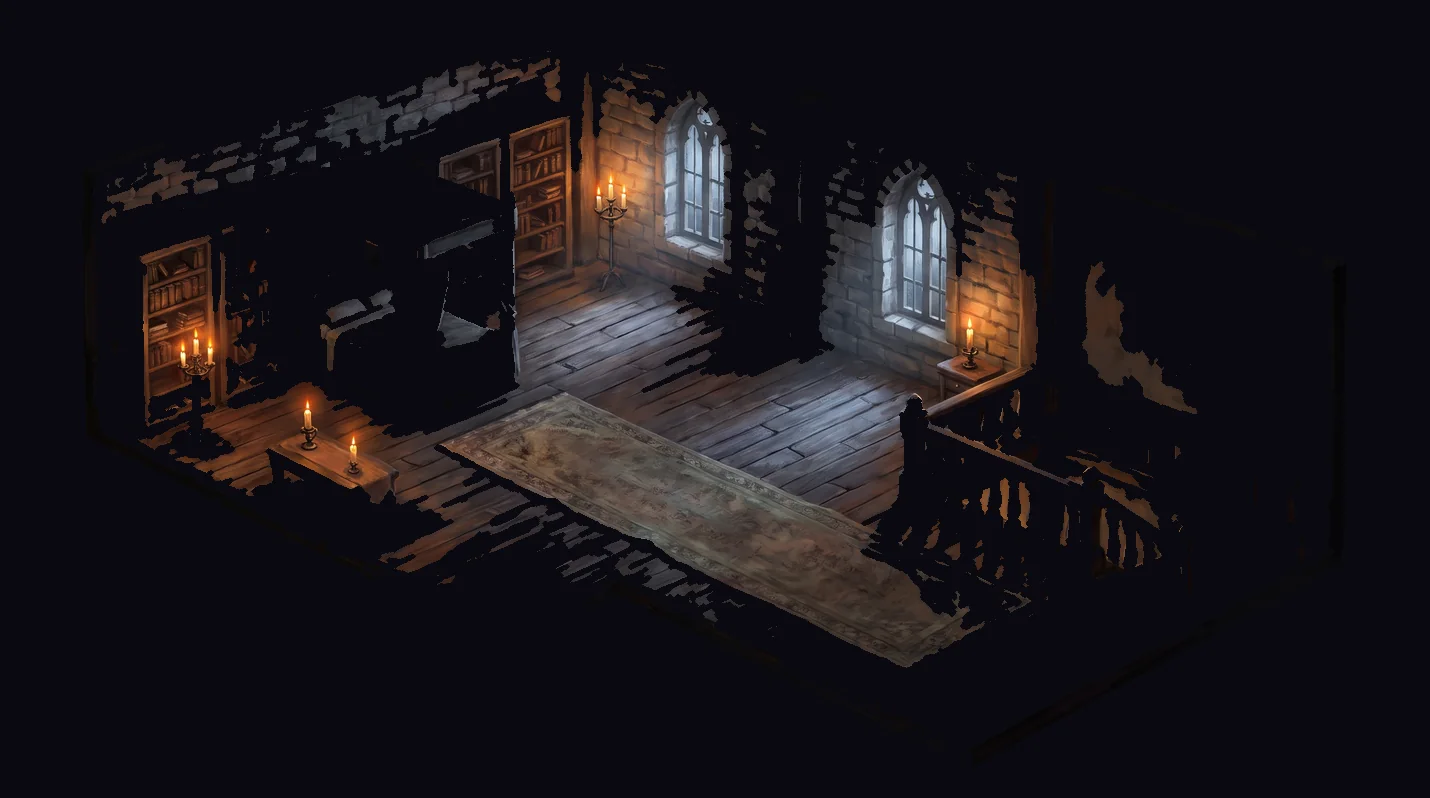
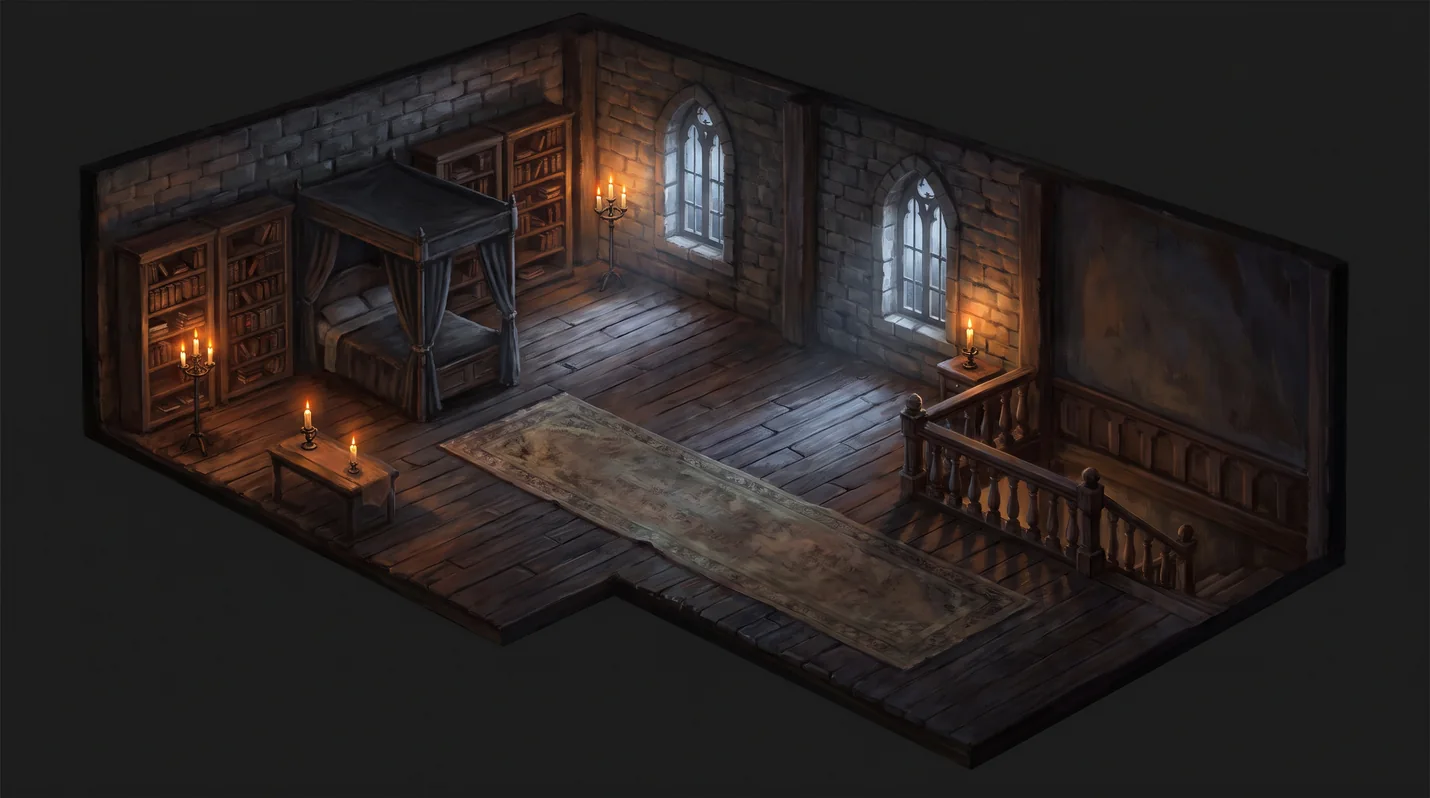
Add flashing wall text and restore the upper room
Background keying had eaten into the upper room's painting.

Changed region(s): [[0.0615, 0.0301, 0.9231, 0.9023]]

diff --git a/client/src/render.ts b/client/src/render.ts
@@ -366,6 +366,23 @@ export class Renderer {
     context.globalCompositeOperation = "source-over";
   }
 
+  /** Flashing writing, skewed to follow the back-left wall of the upper room. */
+  private drawWallText() {
+    const context = this.context;
+    const flash = Math.sin(this.time * 9) > -0.2 ? 1 : 0.12;
+
+    context.save();
+    context.transform(1, -0.335, 0, 1, 395, 200);
+    context.font = "700 44px Georgia, serif";
+    context.textAlign = "center";
+    context.globalAlpha = flash;
+    context.shadowColor = "#ff2a18";
+    context.shadowBlur = 22;
+    context.fillStyle = "#ff5a3c";
+    context.fillText("O Zé é Gay!!!", 0, 0);
+    context.restore();
+  }
+
   private drawLabel(pickables: Pickable[], hovered: string | undefined) {
     const item = pickables.find((pickable) => pickable.id === hovered);
     const hotspot = HOTSPOTS.find((spot) => spot.id === hovered);
@@ -592,6 +609,7 @@ export class Renderer {
     context.setTransform(scale, 0, 0, scale, this.canvas.width / 2 - camera.x * scale, this.canvas.height / 2 - camera.y * scale);
     if (isCity) this.drawLampGlow();
     this.drawHotspots(areaName, hovered, dt);
+    if (areaName === "upper") this.drawWallText();
     this.drawBolts(dt);
     this.drawParticles(dt);
 

diff --git a/tools/build_art.py b/tools/build_art.py
@@ -255,10 +255,13 @@ def ground():
     for room in ("hall", "upper"):
         painting = Image.open(f"{SOURCE}/city/{room}.png").convert("RGB").resize((1430, 798), Image.LANCZOS)
         pixels = np.asarray(painting).astype(np.float32)
-        backdrop = np.linalg.norm(pixels - pixels[4, 4], axis=2) < 26
-        labels, _ = ndimage.label(backdrop)
-        outside = labels == labels[4, 4]
-        pixels[ndimage.binary_dilation(outside, iterations=2)] = (10, 10, 16)
+        # The hall sits on flat grey. The upper room's backdrop is nearly as dark as
+        # its walls, so keying it would eat into the painting.
+        if room == "hall":
+            backdrop = np.linalg.norm(pixels - pixels[4, 4], axis=2) < 26
+            labels, _ = ndimage.label(backdrop)
+            outside = labels == labels[4, 4]
+            pixels[ndimage.binary_dilation(outside, iterations=2)] = (10, 10, 16)
         Image.fromarray(pixels.astype(np.uint8)).save(f"{ART}/room_{room}.webp", quality=84, method=6)
     return tile_w * 3, height, tile_w, tile_h
 
